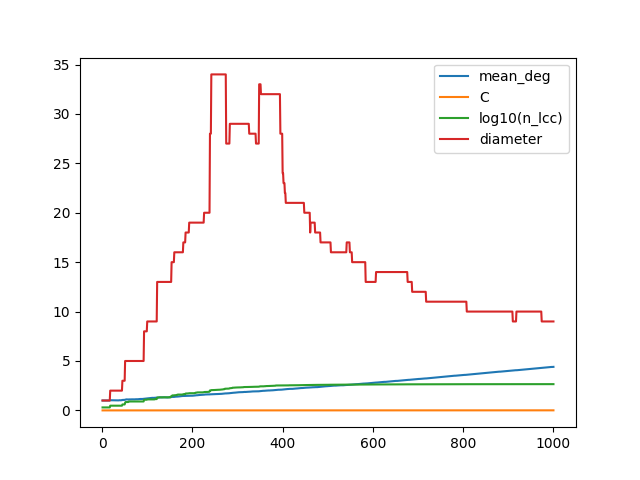
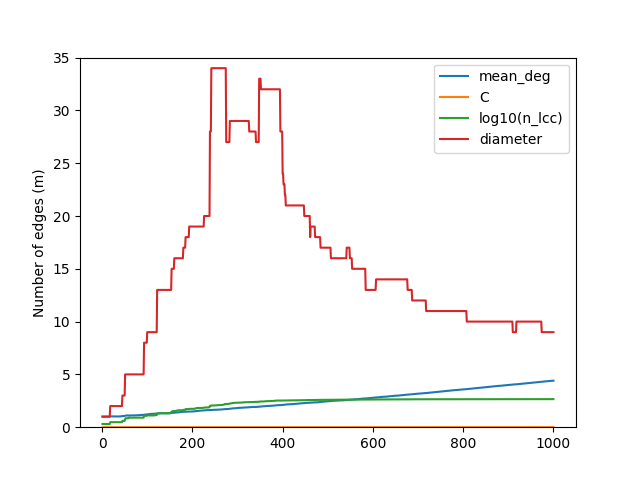
proj script and figs

diff --git a/proj/rank2g.py b/proj/rank2g.py
@@ -18,17 +18,18 @@ parser.add_argument('--m', '-m', type=int, required=True, help='number of edges'
 parser.add_argument('--rand', '-r', action='store_true', help='randomize edges')
 parser.add_argument('--plot', '-p', action='store_true', help='plot graph')
 parser.add_argument('--out', '-o', type=str, required=True, help='output pattern')
-parser.add_argument('--steps', '-s', type=str, required=True, help='comma-separated set of edge integers to plot at')
+parser.add_argument('--steps', '-s', type=str, help='comma-separated set of edge integers to plot at')
 args = parser.parse_args()
 
 # meta
+SYMBOLS = '/home/jake/ghub/csci-5352-network_analysis_and_modeling/proj/symbols.txt'
 NODE_META='/home/jake/ghub/csci-5352-network_analysis_and_modeling/proj/securities.csv'
 df_node_meta = pd.read_csv(NODE_META)
 
-
 # steps
-steps = set(args.steps.split(','))
-steps = {int(i) for i in steps}
+if args.steps:
+    args.steps = set(args.steps.split(','))
+    args.steps = {int(i) for i in args.steps}
 
 # print parsed args
 print('# args')
@@ -36,7 +37,7 @@ print('input',args.input)
 print('m',args.m)
 print('rand',args.rand)
 print('out',args.out)
-print('steps',steps)
+print('steps',args.steps)
 
 # cmap
 colors = [
@@ -118,6 +119,9 @@ def rank2g(df, m, output_pattern, steps):
     Cs = []
     n_lccs = []
     diameters = []
+    n_comp=[]
+    mods=[]
+    partition = {k:set() for k in cmap.keys()}
     for i,row in df.iterrows():
         if i == m:
             break
@@ -129,11 +133,22 @@ def rank2g(df, m, output_pattern, steps):
             g.add_node(sym1)
             for key in d:
                 g.nodes[sym1][key] = d[key]
+                if key == 'sector':
+                    sector = d[key]
+                    partition[sector].add(sym1)
         if not g.has_node(sym2):
             d = get_node_meta(sym2)
             g.add_node(sym2)
             for key in d:
                 g.nodes[sym2][key] = d[key]
+                if key == 'sector':
+                    sector = d[key]
+                    partition[sector].add(sym2)
+        # do list of sets instead of dict
+        p = []
+        for k,v in partition.items():
+            if len(v) > 0:
+                p.append(v)
         # edges
         cor = row['cor']
         g.add_edge(sym1,sym2, weight = cor)
@@ -142,23 +157,30 @@ def rank2g(df, m, output_pattern, steps):
         C = nx.transitivity(g)
         lcc = max(nx.connected_components(g), key=len)
         n_lcc = len(lcc)
+        n_components = nx.number_connected_components(g)
         # diameter w.r.t largest connected component
         if n_lcc > 1:
             diameter = nx.diameter(g.subgraph(lcc))
         else:
             diameter = 0
+        mod = nx.community.modularity(g, p)
         ms.append(i+1)
         mean_degs.append(mean_deg)
         Cs.append(C)
         n_lccs.append(n_lcc)
         diameters.append(diameter)
+        n_comp.append(n_components)
+        mods.append(mod)
         # plot
-        if i+1 in steps:
-            # plot graph
-            print(f'plotting graph at {i+1} edges')
-            plotg(g,f'{output_pattern}_e{i+1}.html', color=True)
+        if args.plot:
+            if i+1 in steps:
+                # plot graph
+                print(f'plotting graph at {i+1} edges')
+                plotg(g,f'{output_pattern}_e{i+1}.html', color=True)
         print(i)
-    stats = pd.DataFrame({'m':ms,'mean_deg':mean_degs,'C':Cs,'n_lcc':n_lccs,'diameter':diameters})
+    stats = pd.DataFrame(
+        {'m':ms,'mean_deg':mean_degs,'C':Cs,'n_lcc':n_lccs,'diameter':diameters,
+         'n_comp':n_comp,'modularity':mods})
     return g, stats
 
 def cor2g_rand(df, m, output_pattern, steps, seed = 0):
@@ -174,6 +196,9 @@ def cor2g_rand(df, m, output_pattern, steps, seed = 0):
     Cs = []
     n_lccs = []
     diameters = []
+    n_comp = []
+    mods=[]
+    partition = {k:set() for k in cmap.keys()}
     for i in range(m):
         if i == m:
             break
@@ -185,11 +210,22 @@ def cor2g_rand(df, m, output_pattern, steps, seed = 0):
             g.add_node(sym1)
             for key in d:
                 g.nodes[sym1][key] = d[key]
+                if key == 'sector':
+                    sector = d[key]
+                    partition[sector].add(sym1)
         if not g.has_node(sym2):
             d = get_node_meta(sym2)
             g.add_node(sym2)
             for key in d:
                 g.nodes[sym2][key] = d[key]
+                if key == 'sector':
+                    sector = d[key]
+                    partition[sector].add(sym2)
+        # do list of sets instead of dict
+        p = []
+        for k,v in partition.items():
+            if len(v) > 0:
+                p.append(v)
         # edges
         cor = df.loc[sym1,sym2]
         g.add_edge(sym1,sym2, weight = cor)
@@ -198,36 +234,53 @@ def cor2g_rand(df, m, output_pattern, steps, seed = 0):
         C = nx.transitivity(g)
         lcc = max(nx.connected_components(g), key=len)
         n_lcc = len(lcc)
+        n_components = nx.number_connected_components(g)
         # diameter w.r.t largest connected component
         if n_lcc > 1:
             diameter = nx.diameter(g.subgraph(lcc))
         else:
             diameter = 0
+        mod = nx.community.modularity(g, p)
         ms.append(i+1)
         mean_degs.append(mean_deg)
         Cs.append(C)
         n_lccs.append(n_lcc)
         diameters.append(diameter)
+        n_comp.append(n_components)
+        mods.append(mod)
         # plot
-        if i+1 in steps:
-            # plot graph
-            print(f'plotting graph at {i+1} edges')
-            plotg(g,f'{output_pattern}_e{i+1}.html', color=True)
+        if args.plot:
+            if i+1 in steps:
+                # plot graph
+                print(f'plotting graph at {i+1} edges')
+                plotg(g,f'{output_pattern}_e{i+1}.html', color=True)
         print(i)
-    stats = pd.DataFrame({'m':ms,'mean_deg':mean_degs,'C':Cs,'n_lcc':n_lccs,'diameter':diameters})
+    stats = pd.DataFrame({'m':ms,'mean_deg':mean_degs,'C':Cs,'n_lcc':n_lccs,'diameter':diameters,
+                          'n_comp':n_comp,'modularity':mods})
     return g, stats
 
 def main():
+    # set node communities by sector
+    # partition={k:[] for k in cmap.keys()} 
+    # with open(SYMBOLS) as f:
+    #     for line in f:
+    #         s = line.strip()
+    #         sector = get_node_meta(s)['sector']
+    #         if sector in cmap.keys():
+    #             partition[sector].append(s)
+    #         else:
+    #             raise ValueError(f'symbol {s} not found in cmap')
+    # graphs
     if args.rand:
         df = pd.read_csv(args.input, index_col=0) # read corr
         print('generating random graphs')
-        _, stats = cor2g_rand(df, args.m, args.out, steps)
-        stats.to_csv(f'{args.out}_stats.csv', index=False, sep ='\t')
+        _, stats = cor2g_rand(df, args.m, args.out, args.steps)
+        stats.to_csv(f'{args.out}_stats.tsv', index=False, sep ='\t')
     else:
         df = pd.read_csv(args.input) # read rank
         print('generating graphs')
-        _, stats = rank2g(df, args.m, args.out, steps)
-        stats.to_csv(f'{args.out}_stats.csv', index=False, sep ='\t')
+        _, stats = rank2g(df, args.m, args.out, args.steps)
+        stats.to_csv(f'{args.out}_stats.tsv', index=False, sep ='\t')
     print('done')
 main()
 

diff --git a/proj/stats2plots.py b/proj/stats2plots.py
@@ -5,6 +5,7 @@ import argparse
 import numpy as np
 
 
+# for experiment 1
 # input: stats file
 # output: plot of stats
 
@@ -14,24 +15,46 @@ parser.add_argument('--output', '-o', type=str, required=True, help='output plot
 # parser.add_argument('--title', '-t', type=str, required=True, help='plot title')
 # parser.add_argument('--xlabel', '-x', type=str, required=True, help='x-axis label')
 # parser.add_argument('--ylabel', '-y', type=str, required=True, help='y-axis label')
+# parser.add_argument('--stats', '-s', type=str, required=True, help='comma delim stats to plot')
+parser.add_argument('--stats', '-s', type=int, required=True, help='1 for C,modularity and 2 for all other stats')
 
 args = parser.parse_args()
+
+# STATS = set(['mean_deg', 'C', 'n_lcc', 'diameter', 'n_comp', 'modularity'])
+# stats = set(args.stats.split(','))
+# assert stats.issubset(STATS), f"Invalid stats: {stats - STATS}. Valid stats are: {STATS}"
 
 # read stats file
 df = pd.read_csv(args.input, sep='\t')
 
 # plot all stats as a function of 'm' column
 
-# mean_deg
-plt.plot(df['m'], df['mean_deg'], label='mean_deg')
-# C
-plt.plot(df['m'], df['C'], label='C')
-# n_lcc
-plt.plot(df['m'], df['n_lcc'].apply(lambda x: np.log10(x)), label='log10(n_lcc)')
-# diameter
-plt.plot(df['m'], df['diameter'], label='diameter')
+# for s in stats:
+#     if s == 'n_lcc':
+#         df[s] = df[s].apply(lambda x: np.log2(x) if x > 0 else 0)
+#     plt.plot(df['m'], df[s], label=s)
+if args.stats == 1:
+    # plot C and modularity
+    plt.plot(df['m'], df['C'], label='clustering coef. (C)')
+    plt.plot(df['m'], df['modularity'], label='modularity')
+    plt.hlines(y=0,xmin=0,xmax=1000, color='black', linestyle='dashed', label = 'not (dis)assortative')
+    plt.ylim(-1, 1)
+elif args.stats == 2:
+    # plot all other stats
+    plt.plot(df['m'], df['mean_deg'], label='mean degree (<k>)')
+    plt.plot(df['m'], df['n_lcc'].apply(lambda x: np.log2(x)), label='log2(|LCC|)')
+    plt.plot(df['m'], df['diameter'], label='diameter (l_max)')
+    plt.plot(df['m'], df['n_comp'].apply(lambda x: np.log2(x)), label='log2(num. components)')
+    plt.ylim(0,40)
+plt.xlabel('Number of edges (m)')
 plt.legend()
 plt.savefig(args.output)
 plt.close()
 
 
+    # # C
+    # plt.plot(df['m'], df['C'], label='C')
+    # # n_lcc
+    # plt.plot(df['m'], df['n_lcc'].apply(lambda x: np.log2(x)), label='log2(n_lcc)')
+    # # diameter
+    # plt.plot(df['m'], df['diameter'], label='diameter')

diff --git a/proj/price2return.py b/proj/price2return.py
@@ -8,6 +8,7 @@ parser = argparse.ArgumentParser(description='Calculate log return of stock pric
 parser.add_argument('--prices', '-p', type=str, required=True, help='input stock prices file')
 parser.add_argument('--symbols', '-s', type=str, required=True, help='input symbols file')
 parser.add_argument('--timestep', '-t', type=int, default=1, help='timestep for log return calculation')
+parser.add_argument('--outpattern', '-o', type=str, default='return', help='output pattern')
 args = parser.parse_args()
 
 ### data
@@ -74,16 +75,16 @@ for sym in symbols:
         d_return[sym].append(diff)
 # convert to datafraem
 df_return = pd.DataFrame(d_return)
-df_return.to_csv(f'log_return_{args.timestep}.csv', index=False)
+df_return.to_csv(f'{args.outpattern}.log_return.t{args.timestep}.csv', index=False)
 
 ### correlation of log return vectors
 # df_return = pd.read_csv('log_return.csv')
-df_return = pd.read_csv(f'log_return_{args.timestep}.csv')
+df_return = pd.read_csv(f'{args.outpattern}.log_return.t{args.timestep}.csv')
 print(df_return.columns)
 cor = df_return.corr(method='pearson')
 print(cor)
 # cor.to_csv('correlation.csv')
-cor.to_csv(f'correlation_{args.timestep}.csv')
+cor.to_csv(f'{args.outpattern}.correlation.t{args.timestep}.csv')
 
 
 

diff --git a/proj/cor2rank.py b/proj/cor2rank.py
@@ -9,6 +9,7 @@ import argparse
 parser = argparse.ArgumentParser(description='Correlation to Rank')
 parser.add_argument('--input', '-i', type=str, required=True, help='input correlation matrix file')
 parser.add_argument('--timestep', '-t', type=int, default=1, help='timestep for log return calculation')
+parser.add_argument('--output', '-o', type=str, help='output file name')
 args = parser.parse_args()
 
 df = pd.read_csv(args.input, index_col=0)
@@ -27,4 +28,4 @@ for i in range(df.shape[0]):
                 heapq.heapreplace(hq, (sym_i,sym_j,cor)) # replace smallest element in heap
 topk= sorted(hq,reverse=True, key=lambda x: x[2])
 df = pd.DataFrame(topk,columns=['sym1','sym2','cor'])
-df.to_csv(f'rank_{args.timestep}.csv',index=False)
+df.to_csv(f'{args.output}',index=False)
